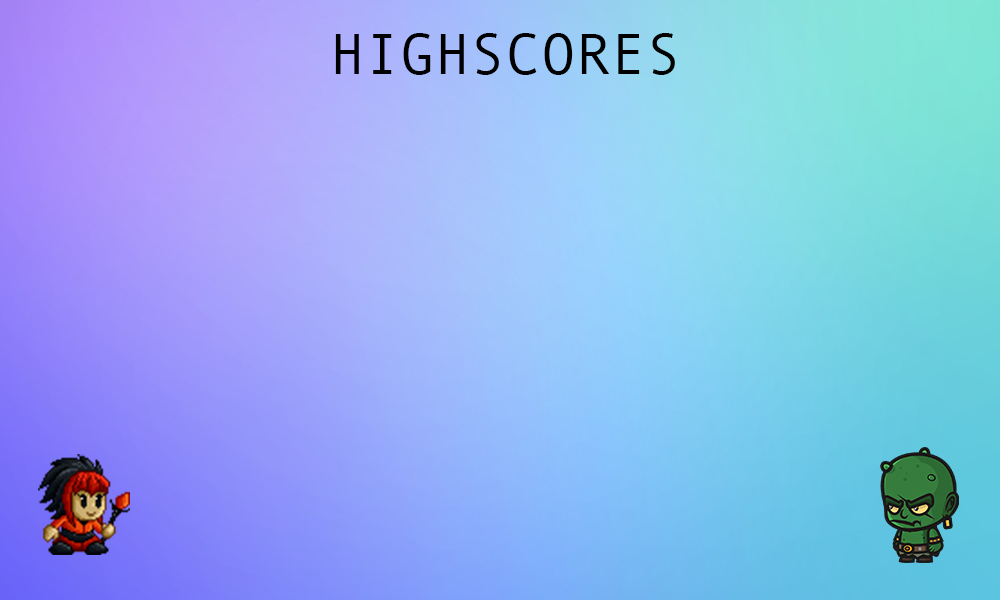
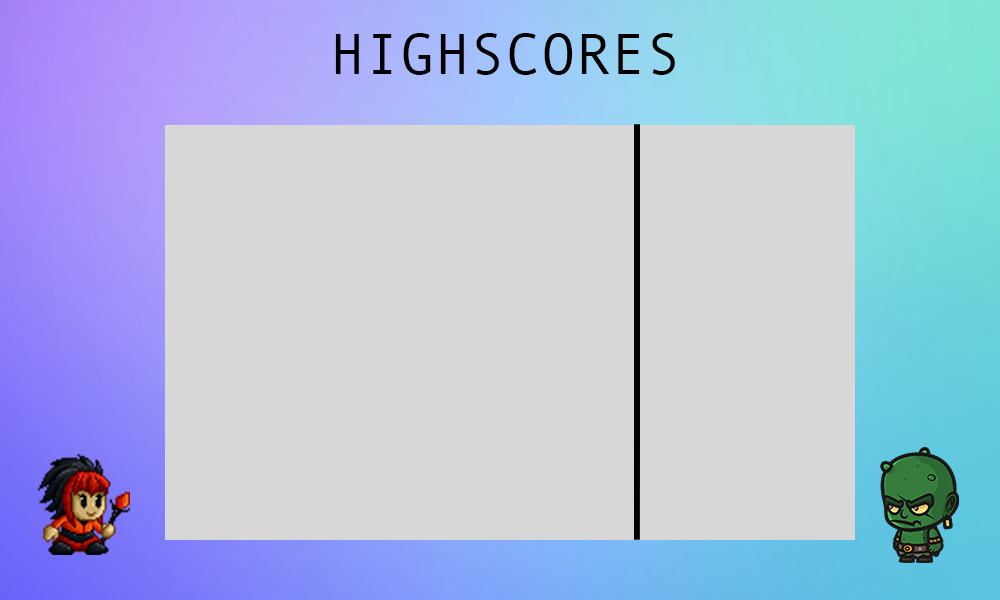
Connected the database with the names and scores

diff --git a/src/Run.py b/src/Run.py
@@ -26,8 +26,11 @@ bright_yellow = (255, 255, 51)
  
 block_color = (53,115,255)
 
-player_name = ''
-final = ''
+pause = False 
+playerName = ''
+
+db = Database()
+
 
 # --------------------------------------------------------------------------------------------
 
@@ -48,10 +51,12 @@ helpMenu5Img = pygame.image.load('Images/Help-Menu5.png')
 
 pauseMenuImg = pygame.image.load('Images/Pause-Menu.png')
 
-pause = False 
+nameMenuImg = pygame.image.load('Images/Name-Screen.png')
+
+confirmNameMenuImg = pygame.image.load('Images/Confirm-Name-Menu.png')
+
 
 # --------------------------------------------------------------------------------------------
-db = Database()
 
 def make_button(message, x, y, width, height, active_col, inactive_col, action):
 
@@ -175,10 +180,18 @@ def helpmenu5():
 
 
 def gameloop():
+
     global pause
+    global playerName
+
     gameloop = True
 
-    print('player name was:' +  final)
+    # insert player into the database
+    db.insert(playerName, 0)
+
+    playerName = ''
+
+    # print('player name was:' +  playerName)
 
     while gameloop:
         for event in pygame.event.get():
@@ -209,7 +222,9 @@ def gameloop():
 def name():
 
     name = True
-    userName = []
+    global playerName
+
+    playerName = ''
 
     while name:
         for event in pygame.event.get():
@@ -217,28 +232,43 @@ def name():
                 keys = pygame.key.name(event.key)
 
                 if(keys.isalpha or keys.isdigit):
-                    userName.append(keys)
+                    playerName += keys
             
             if event.type == pygame.QUIT:
                 pygame.quit()
                 quit()
 
-        gameDisplay.fill(white)
+        gameDisplay.blit(nameMenuImg, (0, 0))
 
-
-        final = ''
-
-        for s in userName:
-            final += s
-
-        print(final)
-
-
-        make_button("Advance", 100, 500, 150, 50, bright_green, green, gameloop)
+        make_button("Advance", 440, 500, 150, 50, bright_green, green, confirm_name)
 
         pygame.display.update()
         clock.tick(15)
-   
+
+def confirm_name():
+    
+    confirm = True
+    global playerName
+
+    while confirm:
+        for event in pygame.event.get():
+            if event.type == pygame.QUIT:
+                pygame.quit()
+                quit()
+
+        gameDisplay.blit(confirmNameMenuImg, (0, 0))
+
+        largeText = pygame.font.Font('freesansbold.ttf', 30)
+
+        TextSurf, TextRect = text_objects(playerName, largeText)
+        TextRect.center = (600, 340)
+        gameDisplay.blit(TextSurf, TextRect)
+
+        make_button("Confirm", 600, 500, 150, 50, bright_green, green, gameloop)
+        make_button("No, go back!", 100, 500, 150, 50, bright_red, red, name)
+
+        pygame.display.update()
+        clock.tick(15)
 
 
 def highscores():
@@ -255,11 +285,32 @@ def highscores():
         # Getting a list of all high scores from the database
         scores_lst = db.get_all_docs()
 
+
+        largeText = pygame.font.Font('freesansbold.ttf', 30)
+
+        for i in range(len(scores_lst)):
+            name = scores_lst[i].get("name")
+            score = str(scores_lst[i].get("score"))
+
+            x = 300
+            y = 150
+
+
+            TextSurf, TextRect = text_objects(name, largeText)
+            TextRect.center = (x, (i * 50) + y)
+            gameDisplay.blit(TextSurf, TextRect)
+
+            TextSurf, TextRect = text_objects(score, largeText)
+            TextRect.center = (x + 500, (i * 50) + y)
+            gameDisplay.blit(TextSurf, TextRect)
+
+        
         make_button("Back to Main", 40, 20, 150, 50, bright_yellow, yellow, start)
         make_button("Quit", 830, 20, 150, 50, bright_red, red, quitgame)
 
         pygame.display.update()
         clock.tick(15)
+    
 
 
 def quitgame():
